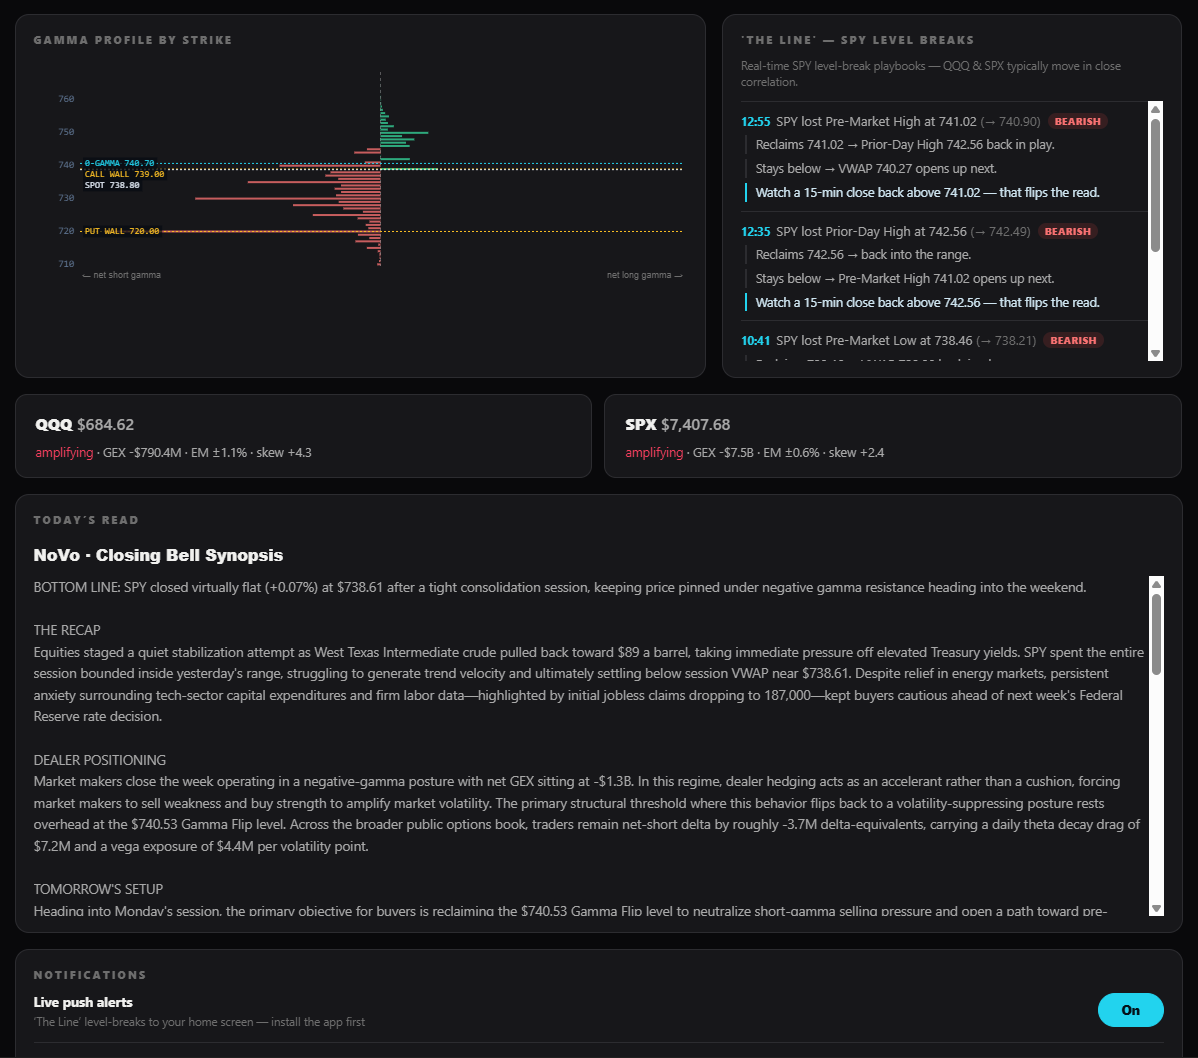
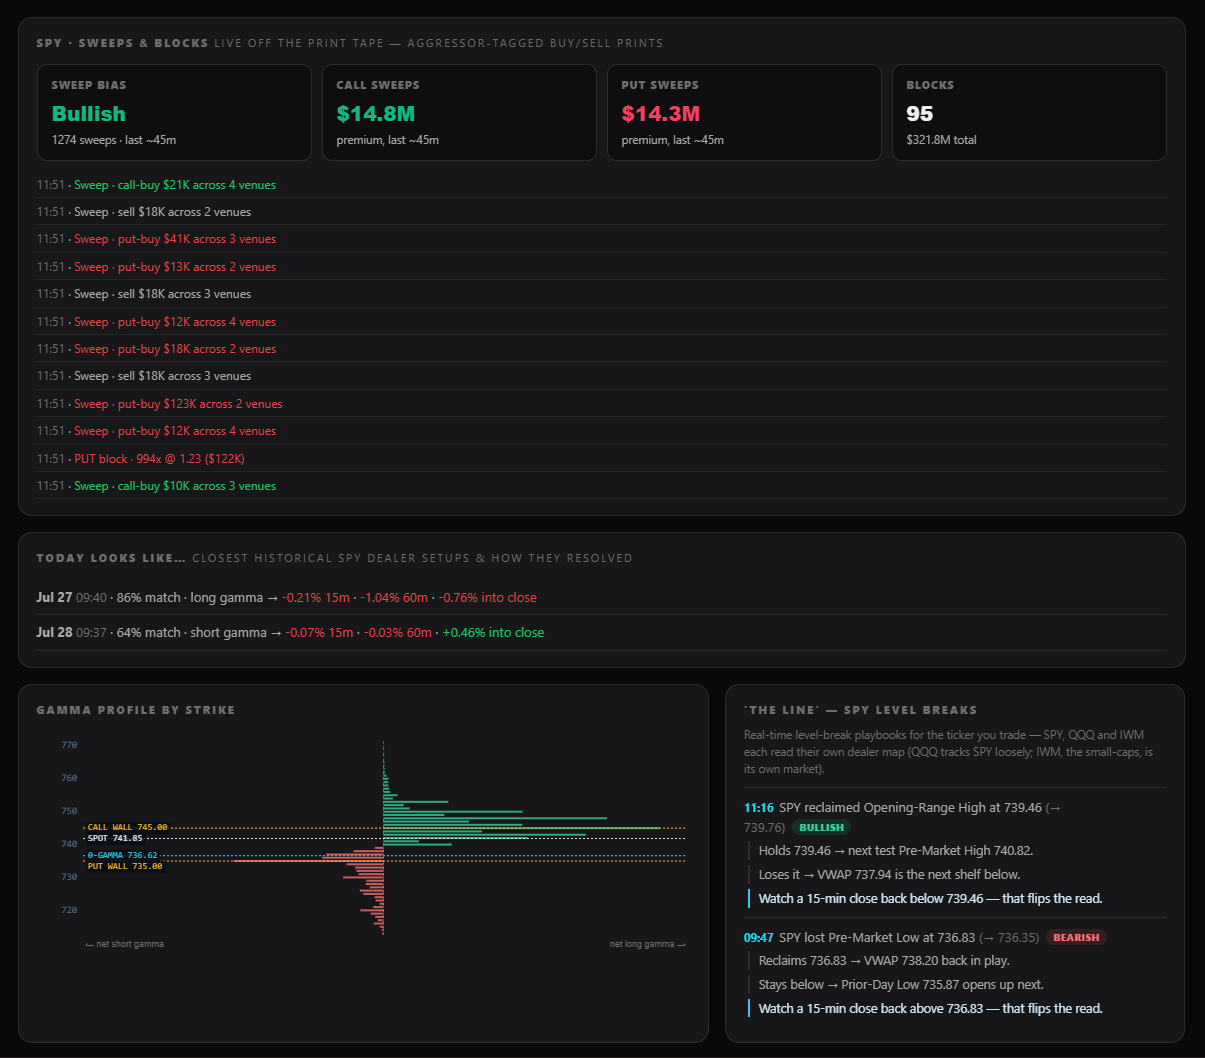
analyst: 3-shot dealer-map fan (was 2) with fresh dashboard screenshots
New Analyst UI captures — split the live dealer map into three framed
cards: (1) session chart + dealer positioning + options flow, (2) sweeps
& blocks tape + historical analogues + gamma profile + 'The Line', (3)
cross-asset QQQ/IWM map + the written Pre-Market read + notifications.
Rebuild the .ss-fan layout for three cards (desktop + mobile), refresh
alt text / window labels per slice, bump ?v=2 to bust the image cache.

🤖 Generated with [Claude Code](https://claude.com/claude-code)

diff --git a/public/analyst.html b/public/analyst.html
@@ -235,15 +235,17 @@
   .ss-fan { position: relative; height: 600px; margin-top: 40px; }
   .ss-fan-card { position: absolute; top: 22px; left: 50%; width: 60%; margin: 0; background: #0d0e10; border: 1px solid var(--bdr); border-radius: 10px; overflow: hidden; box-shadow: 0 24px 80px rgba(0,0,0,.6); transform-origin: center bottom; transition: transform .42s cubic-bezier(.2,.7,.2,1), box-shadow .42s; cursor: pointer; will-change: transform; }
   .ss-fan-card img { width: 100%; display: block; }
-  .ss-fan-1 { transform: translateX(-30%) rotate(6deg); z-index: 2; }
-  .ss-fan-2 { transform: translateX(-72%) rotate(-7deg); z-index: 1; }
+  .ss-fan-1 { transform: translateX(-18%) rotate(7deg); z-index: 3; }
+  .ss-fan-2 { transform: translateX(-50%) rotate(0deg); z-index: 2; }
+  .ss-fan-3 { transform: translateX(-82%) rotate(-7deg); z-index: 1; }
   .ss-fan-card:hover, .ss-fan-card:focus-visible, .ss-fan-card.front { transform: translateX(-50%) translateY(-16px) rotate(0deg) scale(1.05); z-index: 5; box-shadow: 0 36px 104px rgba(0,0,0,.72); outline: none; }
   /* Mobile: keep the SAME fanned/overlapping stack (not a flat vertical list); tap a card to bring it forward */
   @media (max-width: 760px) {
-    .ss-fan { height: 0; padding-bottom: 88%; margin-top: 26px; }
+    .ss-fan { height: 0; padding-bottom: 92%; margin-top: 26px; }
     .ss-fan-card { top: 8px; width: 76%; box-shadow: 0 14px 44px rgba(0,0,0,.5); }
-    .ss-fan-1 { transform: translateX(-38%) rotate(4deg); z-index: 2; }
-    .ss-fan-2 { transform: translateX(-62%) rotate(-5deg); z-index: 1; }
+    .ss-fan-1 { transform: translateX(-26%) rotate(5deg); z-index: 3; }
+    .ss-fan-2 { transform: translateX(-50%) rotate(0deg); z-index: 2; }
+    .ss-fan-3 { transform: translateX(-74%) rotate(-5deg); z-index: 1; }
     .ss-fan-card:hover, .ss-fan-card:focus-visible, .ss-fan-card.front { transform: translateX(-50%) translateY(-8px) rotate(0deg) scale(1.03); box-shadow: 0 22px 60px rgba(0,0,0,.7); }
   }
   @media(max-width:600px) { .ss-mobile-row > div { flex-basis: 82%; max-width: 82%; } }
@@ -519,11 +521,15 @@
       <div class="ss-fan">
         <figure class="ss-fan-card ss-fan-1" tabindex="0">
           <div class="ss-bar"><span class="ss-dot" style="background:#ff5f57"></span><span class="ss-dot" style="background:#febc2e"></span><span class="ss-dot" style="background:#28c840"></span><span class="ss-label">NoVo Analyst &middot; live dealer map</span><span class="ss-live">&#9679; LIVE</span></div>
-          <img src="/screenshots/analyst-dash-1.png?v=1" alt="NoVo Analyst dashboard — the SPY session chart with dealer levels, the gamma-squeeze hero banner, the full dealer-positioning tiles, the VIX fear gauge, and the options-flow panel" loading="lazy">
+          <img src="/screenshots/analyst-dash-1.png?v=2" alt="NoVo Analyst dashboard — the SPY session chart with dealer levels, the gamma-squeeze hero banner, the full dealer-positioning tiles, the VIX fear gauge, and the options-flow panel" loading="lazy">
         </figure>
         <figure class="ss-fan-card ss-fan-2" tabindex="0">
-          <div class="ss-bar"><span class="ss-dot" style="background:#ff5f57"></span><span class="ss-dot" style="background:#febc2e"></span><span class="ss-dot" style="background:#28c840"></span><span class="ss-label">NoVo Analyst &middot; profile, The Line &amp; the read</span><span class="ss-live">&#9679; LIVE</span></div>
-          <img src="/screenshots/analyst-dash-2.png?v=1" alt="NoVo Analyst dashboard — the gamma profile by strike, the real-time 'The Line' level-break feed, the cross-asset QQQ/IWM map, and the written session read" loading="lazy">
+          <div class="ss-bar"><span class="ss-dot" style="background:#ff5f57"></span><span class="ss-dot" style="background:#febc2e"></span><span class="ss-dot" style="background:#28c840"></span><span class="ss-label">NoVo Analyst &middot; sweeps/blocks, analogues &amp; The Line</span><span class="ss-live">&#9679; LIVE</span></div>
+          <img src="/screenshots/analyst-dash-2.png?v=2" alt="NoVo Analyst dashboard — the live sweeps &amp; blocks print tape, the 'today looks like' historical analogues, the gamma profile by strike, and the real-time 'The Line' level-break feed" loading="lazy">
+        </figure>
+        <figure class="ss-fan-card ss-fan-3" tabindex="0">
+          <div class="ss-bar"><span class="ss-dot" style="background:#ff5f57"></span><span class="ss-dot" style="background:#febc2e"></span><span class="ss-dot" style="background:#28c840"></span><span class="ss-label">NoVo Analyst &middot; cross-asset map &amp; the written read</span><span class="ss-live">&#9679; LIVE</span></div>
+          <img src="/screenshots/analyst-dash-3.png?v=2" alt="NoVo Analyst dashboard — the cross-asset QQQ and IWM dealer map, the written Pre-Market Primer session read, and the notification controls" loading="lazy">
         </figure>
       </div>
       <p class="ss-mobile-cap">The live dealer map &mdash; the session chart, the gamma-squeeze hero &amp; full dealer read, the options-flow and sweeps/blocks tape panels, the gamma profile, the cross-asset map, and &lsquo;The Line&rsquo; feed. Installs like an app on desktop &amp; mobile.</p>
